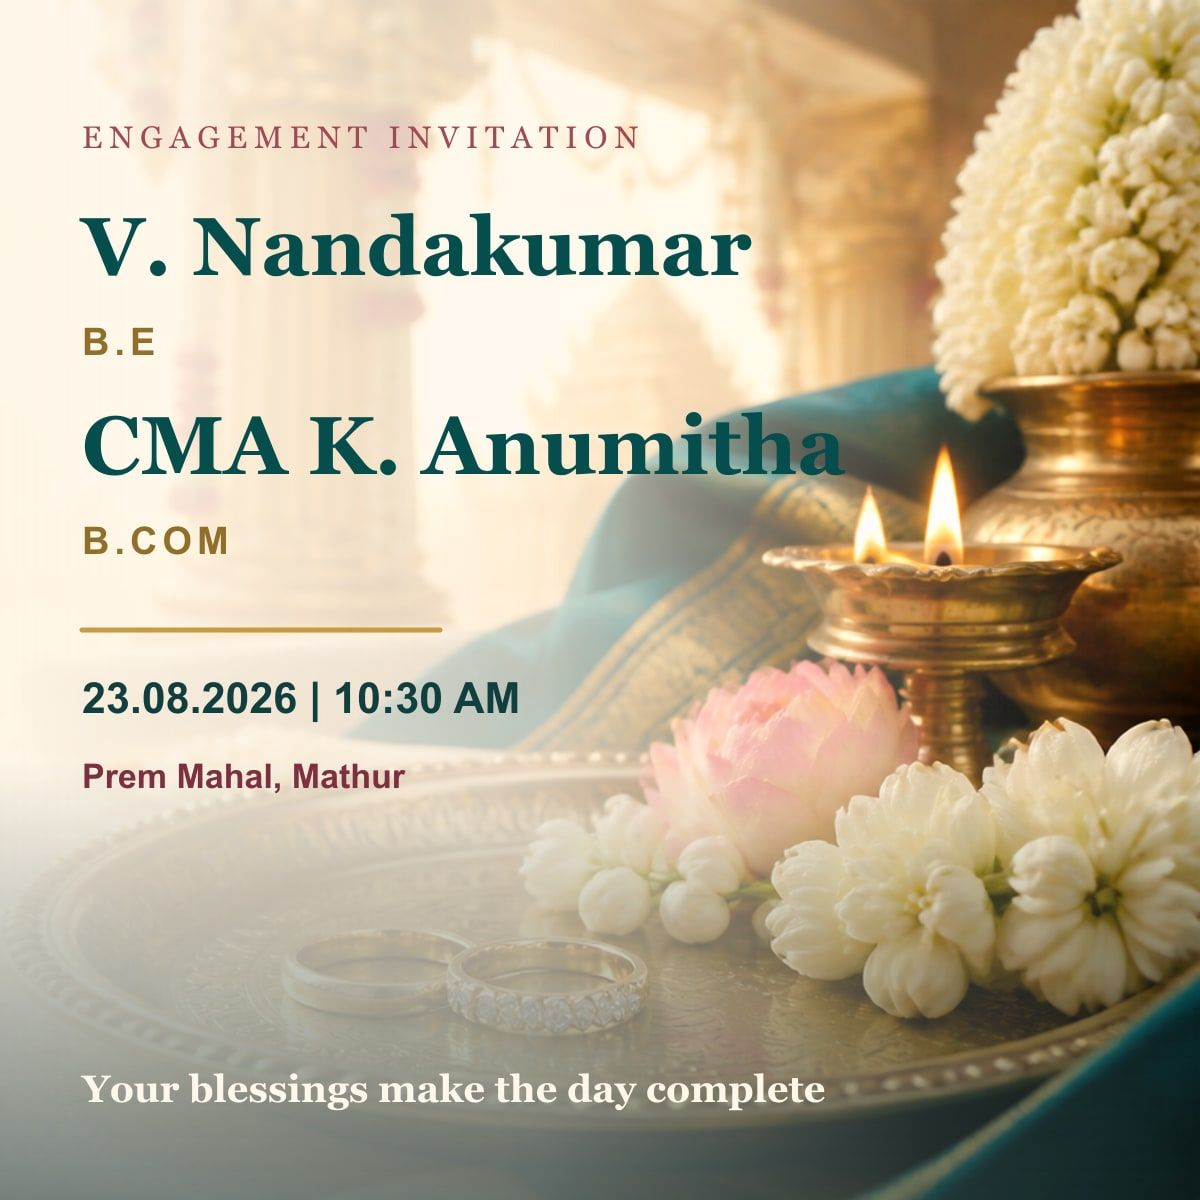
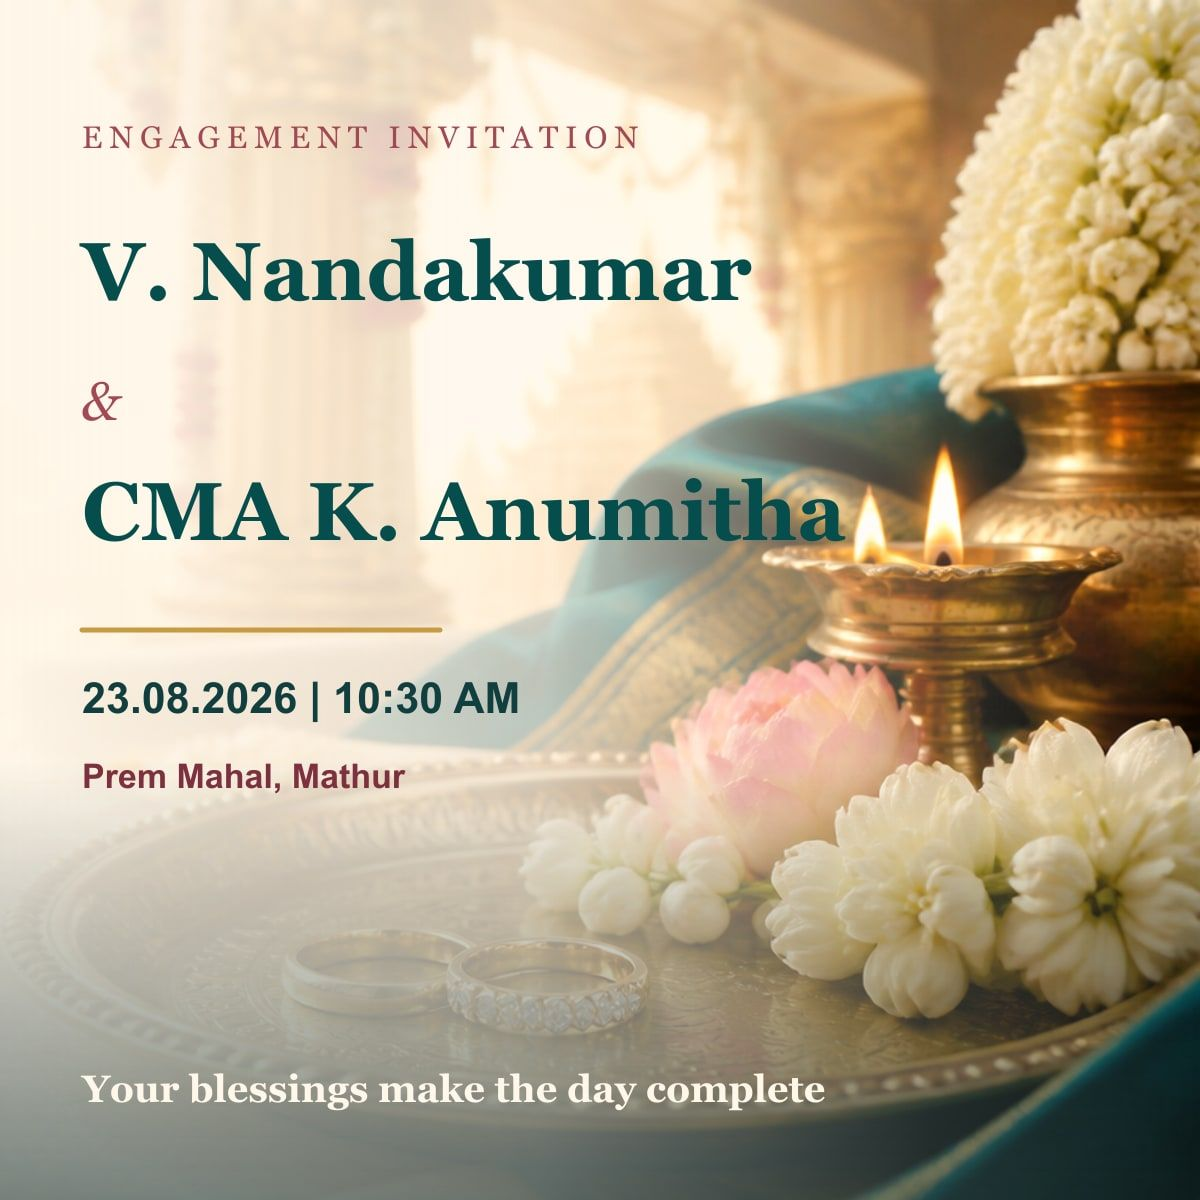
Update invitation names and presence heading

Changed region(s): [[0.0617, 0.185, 0.7092, 0.4625]]

diff --git a/index.html b/index.html
@@ -37,9 +37,9 @@
         <div class="heroContent">
           <p class="eyebrow">Engagement Ceremony</p>
           <h1 class="coupleTitle">
-            <span><strong>V. Nandakumar <small>B.E</small></strong></span>
+            <span><strong>V. Nandakumar</strong></span>
             <em>&</em>
-            <span><strong>CMA K. Anumitha <small>B.COM</small></strong></span>
+            <span><strong>CMA K. Anumitha</strong></span>
           </h1>
           <p class="intro">
             With the blessings of our families, we invite you to bless the
@@ -101,7 +101,7 @@
           </div>
           <a
             class="calendarButton"
-            href="https://calendar.google.com/calendar/render?action=TEMPLATE&text=V.%20Nandakumar%20B.E%20%26%20CMA%20K.%20Anumitha%20B.COM%20Engagement%20Ceremony&dates=20260823T050000Z/20260823T080000Z&details=Engagement%20ceremony%20of%20V.%20Nandakumar%20B.E%20%26%20CMA%20K.%20Anumitha%20B.COM.%20Venue%3A%20Prem%20Mahal%2C%201st%20Main%20Road%2C%20MMDA%2C%20TNHB%20Layout%2C%20Mathur%2C%20Tamil%20Nadu&location=Prem%20Mahal%2C%201st%20Main%20Road%2C%20MMDA%2C%20TNHB%20Layout%2C%20Mathur%2C%20Tamil%20Nadu"
+            href="https://calendar.google.com/calendar/render?action=TEMPLATE&text=V.%20Nandakumar%20%26%20CMA%20K.%20Anumitha%20Engagement%20Ceremony&dates=20260823T050000Z/20260823T080000Z&details=Engagement%20ceremony%20of%20V.%20Nandakumar%20%26%20CMA%20K.%20Anumitha.%20Venue%3A%20Prem%20Mahal%2C%201st%20Main%20Road%2C%20MMDA%2C%20TNHB%20Layout%2C%20Mathur%2C%20Tamil%20Nadu&location=Prem%20Mahal%2C%201st%20Main%20Road%2C%20MMDA%2C%20TNHB%20Layout%2C%20Mathur%2C%20Tamil%20Nadu"
           >
             Add to Calendar
           </a>
@@ -155,7 +155,7 @@
             <a class="secondaryButton" id="shareInviteFooter" href="#">Share Map Location</a>
           </div>
           <div class="rsvp contactCards">
-            <span>For Assistance</span>
+            <span>Awaiting your presence</span>
             <div class="contactCard">
               <strong>Aravind</strong>
               <p>78455 04099</p>

diff --git a/script.js b/script.js
@@ -22,7 +22,7 @@ const audioNotice = document.getElementById("audioNotice");
 const videoFrame = document.getElementById("videoFrame");
 const videoDots = Array.from(document.querySelectorAll("[data-video-index]"));
 const shareText = encodeURIComponent(
-  `You are warmly invited to V. Nandakumar B.E & CMA K. Anumitha B.COM's engagement on 23.08.2026 at 10:30 AM, Prem Mahal. ${window.location.href}`
+  `You are warmly invited to V. Nandakumar & CMA K. Anumitha's engagement on 23.08.2026 at 10:30 AM, Prem Mahal. ${window.location.href}`
 );
 const mapShareText = encodeURIComponent(
   "Venue location: Prem Mahal, 1st Main Road, MMDA, TNHB Layout, Mathur, Tamil Nadu. Map: https://www.google.com/maps/search/?api=1&query=Prem%20Mahal%2C%201st%20Main%20Road%2C%20MMDA%2C%20TNHB%20Layout%2C%20Mathur%2C%20Tamil%20Nadu"
